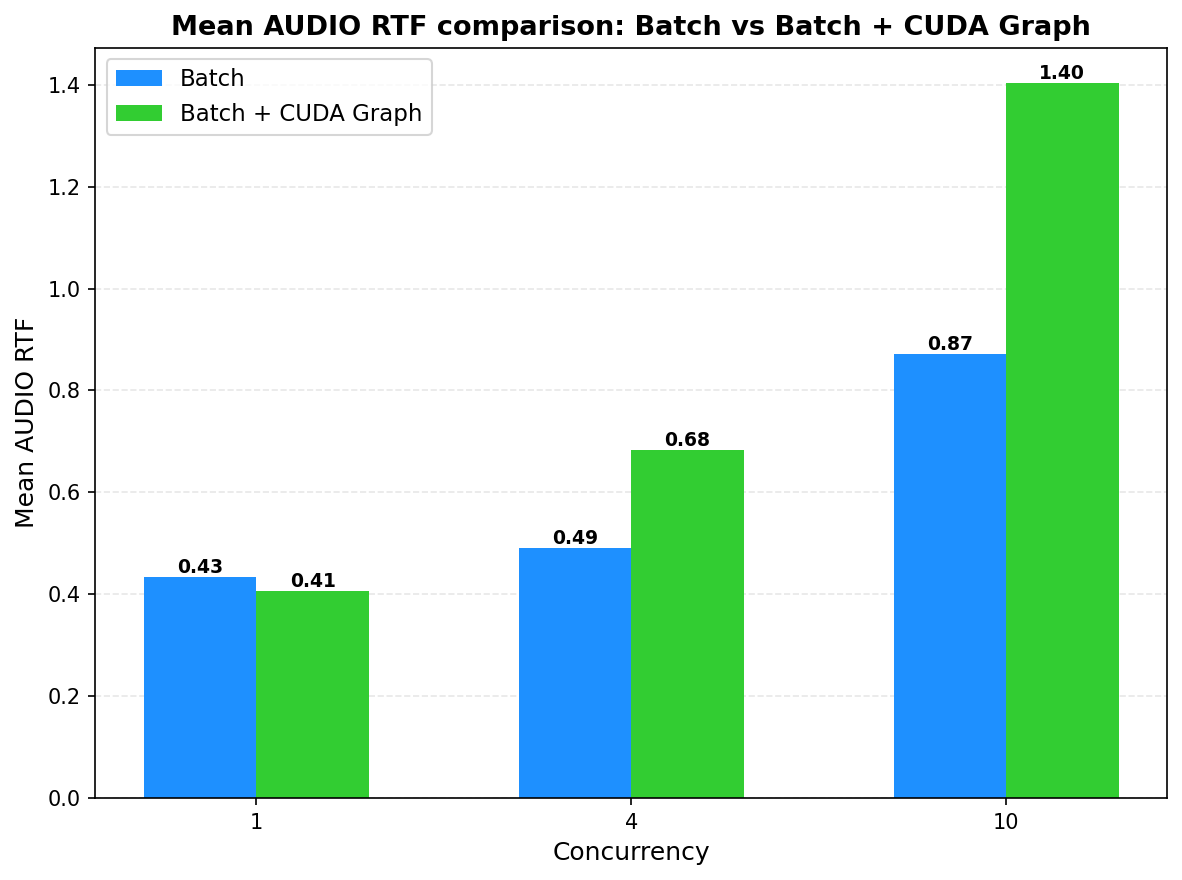
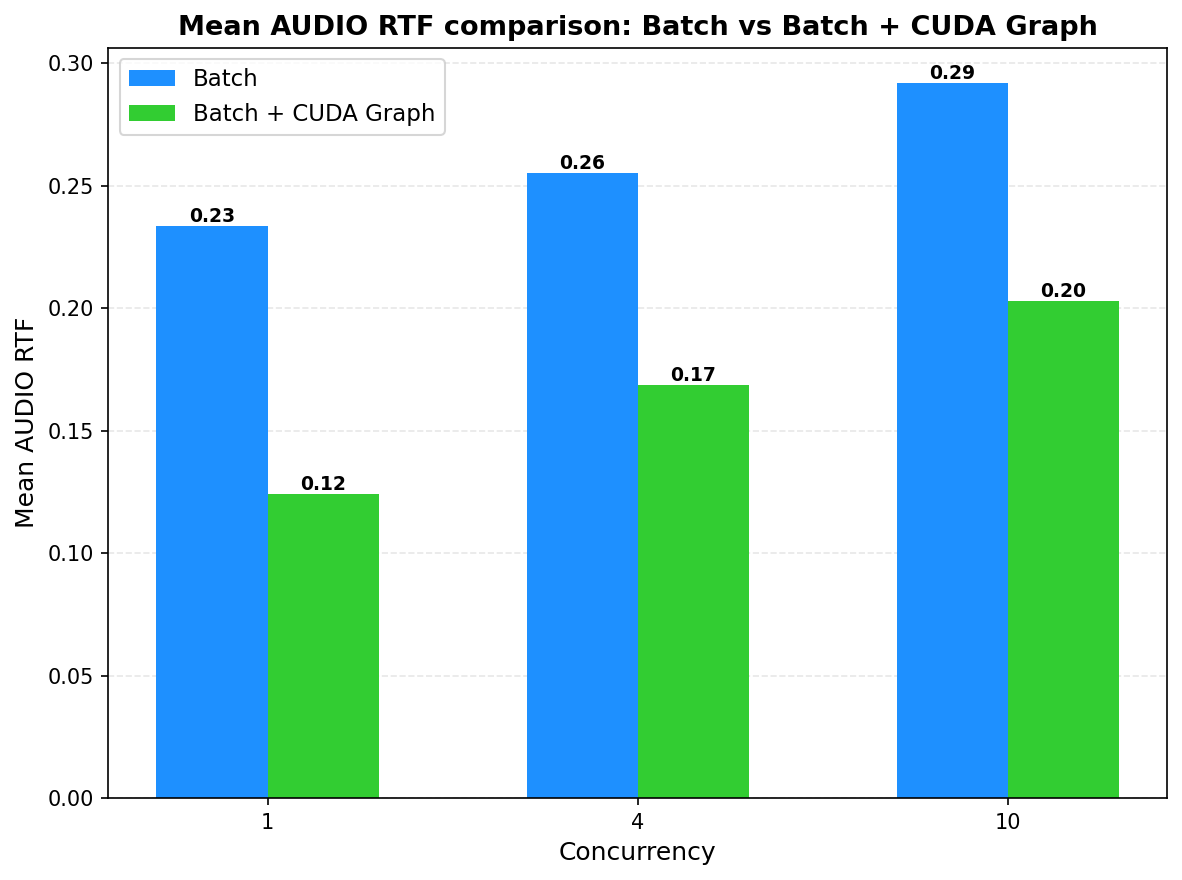
Update TTS benchmark results with vLLM v0.18.0 data (preserve Omni data)

diff --git a/docs/design/qwen3_omni_tts_performance_blog.md b/docs/design/qwen3_omni_tts_performance_blog.md
@@ -30,9 +30,9 @@ Compared with **HF Transformers** (offline, single request), vLLM-Omni with the 
 **Qwen3-Omni** (A100):
 
 <table><tr>
-<td><img src="figures/omni/E2EL_s_vllm_omni_vs_transformers.png" alt="Qwen3-Omni E2EL: vLLM vs HF" width="100%"/></td>
-<td><img src="figures/omni/TTFP_s_vllm_omni_vs_transformers.png" alt="Qwen3-Omni TTFP: vLLM vs HF" width="100%"/></td>
-<td><img src="figures/omni/RTF_vllm_omni_vs_transformers.png" alt="Qwen3-Omni RTF: vLLM vs HF" width="100%"/></td>
+<td><img src="../figures/omni/E2EL_s_vllm_omni_vs_transformers.png" alt="Qwen3-Omni E2EL: vLLM vs HF" width="100%"/></td>
+<td><img src="../figures/omni/TTFP_s_vllm_omni_vs_transformers.png" alt="Qwen3-Omni TTFP: vLLM vs HF" width="100%"/></td>
+<td><img src="../figures/omni/RTF_vllm_omni_vs_transformers.png" alt="Qwen3-Omni RTF: vLLM vs HF" width="100%"/></td>
 </tr></table>
 
 | Metric | vLLM-Omni | HF Transformers | Improvement |
@@ -48,20 +48,20 @@ Compared with **HF Transformers** (offline, single request), vLLM-Omni with the 
 **Qwen3-TTS** (H200, concurrency 1):
 
 <table><tr>
-<td><img src="figures/tts/Mean_E2EL_(ms)_vllm_omni_vs_transformers.png" alt="Qwen3-TTS E2EL: vLLM vs HF" width="100%"/></td>
-<td><img src="figures/tts/Mean_AUDIO_TTFP_(ms)_vllm_omni_vs_transformers.png" alt="Qwen3-TTS TTFP: vLLM vs HF" width="100%"/></td>
-<td><img src="figures/tts/Mean_AUDIO_RTF_vllm_omni_vs_transformers.png" alt="Qwen3-TTS RTF: vLLM vs HF" width="100%"/></td>
+<td><img src="../figures/tts/Mean_E2EL_(ms)_vllm_omni_vs_transformers.png" alt="Qwen3-TTS E2EL: vLLM vs HF" width="100%"/></td>
+<td><img src="../figures/tts/Mean_AUDIO_TTFP_(ms)_vllm_omni_vs_transformers.png" alt="Qwen3-TTS TTFP: vLLM vs HF" width="100%"/></td>
+<td><img src="../figures/tts/Mean_AUDIO_RTF_vllm_omni_vs_transformers.png" alt="Qwen3-TTS RTF: vLLM vs HF" width="100%"/></td>
 </tr></table>
 
 | Metric | vLLM-Omni | HF Transformers | Improvement |
 | --- | --- | --- | --- |
-| E2E latency (s) | 2.08 | 15.51 | ~87% reduction |
-| TTFP (ms) | 97 | 15,513 | ~99.4% reduction (160× faster) |
-| RTF | 0.34 | 2.64 | ~87% reduction (~7.8× faster) |
+| E2E latency (ms) | 941 | 15,513 | ~94% reduction |
+| TTFP (ms) | 64 | 15,513 | ~99.6% reduction (242× faster) |
+| RTF | 0.16 | 2.64 | ~94% reduction (~16.5× faster) |
 
-- **E2E latency**: 2.08 s vs 15.51 s - **~87%** reduction
-- **TTFP**: 97 ms vs 15,513 ms - **~99.4%** reduction (160x faster)
-- **RTF**: 0.34 vs 2.64 - **~87%** reduction (~7.8x faster)
+- **E2E latency**: 941 ms vs 15,513 ms - **~94%** reduction
+- **TTFP**: 64 ms vs 15,513 ms - **~99.6%** reduction (242x faster)
+- **RTF**: 0.16 vs 2.64 - **~94%** reduction (~16.5x faster)
 
 ### Stacked optimization summary
 
@@ -70,9 +70,9 @@ Each optimization stacks on the previous one. The summary plots below show the c
 **Qwen3-Omni** (A100):
 
 <table><tr>
-<td><img src="figures/omni/Summary_E2EL_ms_vs_features.png" alt="Qwen3-Omni E2EL: stacked optimization" width="100%"/></td>
-<td><img src="figures/omni/Summary_TTFP_ms_vs_features.png" alt="Qwen3-Omni TTFP: stacked optimization" width="100%"/></td>
-<td><img src="figures/omni/Summary_RTF_vs_features.png" alt="Qwen3-Omni RTF: stacked optimization" width="100%"/></td>
+<td><img src="../figures/omni/Summary_E2EL_ms_vs_features.png" alt="Qwen3-Omni E2EL: stacked optimization" width="100%"/></td>
+<td><img src="../figures/omni/Summary_TTFP_ms_vs_features.png" alt="Qwen3-Omni TTFP: stacked optimization" width="100%"/></td>
+<td><img src="../figures/omni/Summary_RTF_vs_features.png" alt="Qwen3-Omni RTF: stacked optimization" width="100%"/></td>
 </tr></table>
 
 - **E2EL reduction**: ~74% at concurrency 10 (410,054 ms -> 104,901 ms); ~90% at concurrency 1 (426,529 ms -> 41,216 ms)
@@ -82,14 +82,14 @@ Each optimization stacks on the previous one. The summary plots below show the c
 **Qwen3-TTS** (H200):
 
 <table><tr>
-<td><img src="figures/tts/Summary_mean_e2e_ms_vs_features.png" alt="Qwen3-TTS E2EL: stacked optimization" width="100%"/></td>
-<td><img src="figures/tts/Summary_mean_ttfp_ms_vs_features.png" alt="Qwen3-TTS TTFP: stacked optimization" width="100%"/></td>
-<td><img src="figures/tts/Summary_mean_rtf_vs_features.png" alt="Qwen3-TTS RTF: stacked optimization" width="100%"/></td>
+<td><img src="../figures/tts/Summary_mean_e2e_ms_vs_features.png" alt="Qwen3-TTS E2EL: stacked optimization" width="100%"/></td>
+<td><img src="../figures/tts/Summary_mean_ttfp_ms_vs_features.png" alt="Qwen3-TTS TTFP: stacked optimization" width="100%"/></td>
+<td><img src="../figures/tts/Summary_mean_rtf_vs_features.png" alt="Qwen3-TTS RTF: stacked optimization" width="100%"/></td>
 </tr></table>
 
-- **E2EL reduction**: ~89% at concurrency 10 (44,543 ms -> 4,971 ms); ~56% at concurrency 1 (4,714 ms -> 2,082 ms)
-- **TTFP reduction**: ~97% at concurrency 10 (44,543 ms -> 1,383 ms); ~98% at concurrency 1 (4,714 ms -> 97 ms)
-- **RTF reduction**: ~89% at concurrency 10 (8.15 -> 0.90); ~60% at concurrency 1 (0.85 -> 0.34)
+- **E2EL reduction**: ~85% at concurrency 10 (12,141 ms -> 1,767 ms); ~29% at concurrency 1 (1,323 ms -> 941 ms)
+- **TTFP reduction**: ~96.5% at concurrency 10 (12,141 ms -> 425 ms); ~95% at concurrency 1 (1,323 ms -> 64 ms)
+- **RTF reduction**: ~86% at concurrency 10 (2.19 -> 0.31); ~30% at concurrency 1 (0.23 -> 0.16)
 
 **Benchmark environment:**
 
@@ -97,8 +97,8 @@ Each optimization stacks on the previous one. The summary plots below show the c
 | --- |-----------------------------| --- |
 | **GPU** | A100                        | H200 |
 | **Model** | Qwen3-Omni-30B-A3B-Instruct | Qwen3-TTS-12Hz-1.7B-CustomVoice |
-| **vLLM** | v0.17.0                     | v0.16.0 |
-| **vllm-omni** | commit 199f7832             | commit 3bc89de0 |
+| **vLLM** | v0.17.0                     | v0.18.0 |
+| **vllm-omni** | commit 199f7832             | v0.18.0rc2 |
 | **CUDA** | 12.9                        | 12.8 |
 
 This post walks through each optimization in the same order they are typically enabled in practice, then ends with deployment playbooks for both models.
@@ -124,9 +124,9 @@ Batching alone greatly reduces E2EL and RTF across all concurrencies. The bigges
 **Qwen3-Omni** (A100):
 
 <table><tr>
-<td><img src="figures/omni/Mean_E2EL_ms_Baseline_vs_Batch.png" alt="Qwen3-Omni E2EL: Baseline vs Batch" width="100%"/></td>
-<td><img src="figures/omni/Mean_AUDIO_TTFP_ms_Baseline_vs_Batch.png" alt="Qwen3-Omni TTFP: Baseline vs Batch" width="100%"/></td>
-<td><img src="figures/omni/Mean_AUDIO_RTF_Baseline_vs_Batch.png" alt="Qwen3-Omni RTF: Baseline vs Batch" width="100%"/></td>
+<td><img src="../figures/omni/Mean_E2EL_ms_Baseline_vs_Batch.png" alt="Qwen3-Omni E2EL: Baseline vs Batch" width="100%"/></td>
+<td><img src="../figures/omni/Mean_AUDIO_TTFP_ms_Baseline_vs_Batch.png" alt="Qwen3-Omni TTFP: Baseline vs Batch" width="100%"/></td>
+<td><img src="../figures/omni/Mean_AUDIO_RTF_Baseline_vs_Batch.png" alt="Qwen3-Omni RTF: Baseline vs Batch" width="100%"/></td>
 </tr></table>
 
 | Metric | Concurrency | Baseline | + Batch | Improvement |
@@ -146,22 +146,22 @@ At concurrency 10, E2EL drops from ~410 s to ~235 s; at concurrency 1, from ~427
 **Qwen3-TTS** (H200):
 
 <table><tr>
-<td><img src="figures/tts/Mean_mean_e2e_ms_baseline_vs_batch.png" alt="Qwen3-TTS E2EL: Baseline vs Batch" width="100%"/></td>
-<td><img src="figures/tts/Mean_mean_ttfp_ms_baseline_vs_batch.png" alt="Qwen3-TTS TTFP: Baseline vs Batch" width="100%"/></td>
-<td><img src="figures/tts/Mean_mean_rtf_baseline_vs_batch.png" alt="Qwen3-TTS RTF: Baseline vs Batch" width="100%"/></td>
+<td><img src="../figures/tts/Mean_mean_e2e_ms_baseline_vs_batch.png" alt="Qwen3-TTS E2EL: Baseline vs Batch" width="100%"/></td>
+<td><img src="../figures/tts/Mean_mean_ttfp_ms_baseline_vs_batch.png" alt="Qwen3-TTS TTFP: Baseline vs Batch" width="100%"/></td>
+<td><img src="../figures/tts/Mean_mean_rtf_baseline_vs_batch.png" alt="Qwen3-TTS RTF: Baseline vs Batch" width="100%"/></td>
 </tr></table>
 
 | Metric | Concurrency | Baseline | + Batch | Improvement |
 | --- | --- | --- | --- | --- |
-| E2EL (ms) | 1 | 4,714 | 2,531 | 1.9× |
-| E2EL (ms) | 4 | 18,258 | 2,847 | 6.4× |
-| E2EL (ms) | 10 | 44,543 | 4,920 | 9.1× |
-| RTF | 1 | 0.851 | 0.434 | 2.0× |
-| RTF | 4 | 3.205 | 0.492 | 6.5× |
-| RTF | 10 | 8.152 | 0.871 | 9.4× |
-| Throughput | 10 | 1.25× | 10.35× | 8.3× |
+| E2EL (ms) | 1 | 1,323 | 1,339 | 1.0× |
+| E2EL (ms) | 4 | 5,171 | 1,471 | 3.5× |
+| E2EL (ms) | 10 | 12,141 | 1,705 | 7.1× |
+| RTF | 1 | 0.230 | 0.234 | 1.0× |
+| RTF | 4 | 0.908 | 0.255 | 3.6× |
+| RTF | 10 | 2.186 | 0.292 | 7.5× |
+| Throughput (audio-s/wall-s) | 10 | 3.99 | 33.53 | 8.4× |
 
-At concurrency 10, batching alone brings Qwen3-TTS RTF from 8.15 (far from realtime) down to 0.87 (faster than realtime), and throughput from 1.25x to 10.35x.
+At concurrency 10, batching alone brings Qwen3-TTS RTF from 2.19 (slower than realtime) down to 0.29 (faster than realtime), and throughput from 4.0 to 33.5 audio-sec/wall-sec.
 
 ---
 
@@ -178,9 +178,9 @@ In stage configs, this is represented by `enforce_eager: false` for stages where
 **Qwen3-Omni** (A100):
 
 <table><tr>
-<td><img src="figures/omni/Mean_E2EL_ms_Batch_vs_Batch_CUDA_Graph.png" alt="Qwen3-Omni E2EL: Batch vs CUDA Graph" width="100%"/></td>
-<td><img src="figures/omni/Mean_AUDIO_TTFP_ms_Batch_vs_Batch_CUDA_Graph.png" alt="Qwen3-Omni TTFP: Batch vs CUDA Graph" width="100%"/></td>
-<td><img src="figures/omni/Mean_AUDIO_RTF_Batch_vs_Batch_CUDA_Graph.png" alt="Qwen3-Omni RTF: Batch vs CUDA Graph" width="100%"/></td>
+<td><img src="../figures/omni/Mean_E2EL_ms_Batch_vs_Batch_CUDA_Graph.png" alt="Qwen3-Omni E2EL: Batch vs CUDA Graph" width="100%"/></td>
+<td><img src="../figures/omni/Mean_AUDIO_TTFP_ms_Batch_vs_Batch_CUDA_Graph.png" alt="Qwen3-Omni TTFP: Batch vs CUDA Graph" width="100%"/></td>
+<td><img src="../figures/omni/Mean_AUDIO_RTF_Batch_vs_Batch_CUDA_Graph.png" alt="Qwen3-Omni RTF: Batch vs CUDA Graph" width="100%"/></td>
 </tr></table>
 
 | Metric | Concurrency | Batch | + CUDA Graph | Improvement |
@@ -199,9 +199,22 @@ For the larger Qwen3-Omni model (30B-A3B), CUDA Graph provides a significant imp
 
 **Qwen3-TTS** (H200):
 
-For the Qwen3-TTS 1.7B model, vLLM's CUDA graph on the main Talker decode loop shows **negligible impact** - within noise at concurrency 1 and slightly worse at concurrency 10. The model is small enough that CPU kernel launch overhead is already a tiny fraction of total compute, so graph replay doesn't help. For larger TTS models, the benefit would be more pronounced.
+<table><tr>
+<td><img src="../figures/tts/Mean_mean_e2e_ms_batch_vs_cuda_graph.png" alt="TTS E2EL: Batch vs +CG" width="100%"/></td>
+<td><img src="../figures/tts/Mean_mean_ttfp_ms_batch_vs_cuda_graph.png" alt="TTS TTFP: Batch vs +CG" width="100%"/></td>
+<td><img src="../figures/tts/Mean_mean_rtf_batch_vs_cuda_graph.png" alt="TTS RTF: Batch vs +CG" width="100%"/></td>
+</tr></table>
 
-Instead, the TTS-specific kernel-level optimization comes from **`torch.compile` on the code predictor** (see below), which targets the many small kernels in the 5-layer residual codebook transformer rather than the main Talker decode path.
+| Metric | Concurrency | Batch | + CUDA Graph | Improvement |
+| --- | --- | --- | --- | --- |
+| E2EL (ms) | 1 | 1,339 | 733 | 1.8× |
+| E2EL (ms) | 4 | 1,471 | 987 | 1.5× |
+| E2EL (ms) | 10 | 1,705 | 1,197 | 1.4× |
+| RTF | 1 | 0.234 | 0.124 | 1.9× |
+| RTF | 10 | 0.292 | 0.203 | 1.4× |
+| Throughput (audio-s/wall-s) | 10 | 33.53 | 47.15 | 1.4× |
+
+At concurrency 1, CUDA Graph reduces E2EL from 1,339 ms to 733 ms and RTF from 0.234 to 0.124 - nearly a 2x improvement. The benefit is consistent across all concurrency levels.
 
 ---
 
@@ -223,9 +236,9 @@ So in practice: streaming output defines *how* bytes are sent to the client; asy
 **Qwen3-Omni** (A100):
 
 <table><tr>
-<td><img src="figures/omni/Mean_E2EL_ms_Batch_CUDA_Graph_vs_Async_Chunk.png" alt="Qwen3-Omni E2EL: CG vs Async Chunk" width="100%"/></td>
-<td><img src="figures/omni/Mean_AUDIO_TTFP_ms_Batch_CUDA_Graph_vs_Async_Chunk.png" alt="Qwen3-Omni TTFP: CG vs Async Chunk" width="100%"/></td>
-<td><img src="figures/omni/Mean_AUDIO_RTF_Batch_CUDA_Graph_vs_Async_Chunk.png" alt="Qwen3-Omni RTF: CG vs Async Chunk" width="100%"/></td>
+<td><img src="../figures/omni/Mean_E2EL_ms_Batch_CUDA_Graph_vs_Async_Chunk.png" alt="Qwen3-Omni E2EL: CG vs Async Chunk" width="100%"/></td>
+<td><img src="../figures/omni/Mean_AUDIO_TTFP_ms_Batch_CUDA_Graph_vs_Async_Chunk.png" alt="Qwen3-Omni TTFP: CG vs Async Chunk" width="100%"/></td>
+<td><img src="../figures/omni/Mean_AUDIO_RTF_Batch_CUDA_Graph_vs_Async_Chunk.png" alt="Qwen3-Omni RTF: CG vs Async Chunk" width="100%"/></td>
 </tr></table>
 
 | Metric | Concurrency | Batch + CG | + Async Chunk | Improvement |
@@ -245,22 +258,31 @@ Enabling both brings TTFP down sharply (concurrency 1: 61,257 ms -> 1,164 ms, **
 **Qwen3-TTS** (H200):
 
 <table><tr>
-<td><img src="figures/tts/Mean_mean_e2e_ms_cuda_graph_vs_async_chunk.png" alt="Qwen3-TTS E2EL: CG vs Async Chunk" width="100%"/></td>
-<td><img src="figures/tts/Mean_mean_ttfp_ms_cuda_graph_vs_async_chunk.png" alt="Qwen3-TTS TTFP: CG vs Async Chunk" width="100%"/></td>
-<td><img src="figures/tts/Mean_mean_rtf_cuda_graph_vs_async_chunk.png" alt="Qwen3-TTS RTF: CG vs Async Chunk" width="100%"/></td>
+<td><img src="../figures/tts/Mean_mean_e2e_ms_cuda_graph_vs_async_chunk.png" alt="Qwen3-TTS E2EL: CG vs Async Chunk" width="100%"/></td>
+<td><img src="../figures/tts/Mean_mean_ttfp_ms_cuda_graph_vs_async_chunk.png" alt="Qwen3-TTS TTFP: CG vs Async Chunk" width="100%"/></td>
+<td><img src="../figures/tts/Mean_mean_rtf_cuda_graph_vs_async_chunk.png" alt="Qwen3-TTS RTF: CG vs Async Chunk" width="100%"/></td>
 </tr></table>
 
 | Metric | Concurrency | Batch + CG | + Async Chunk | Improvement |
 | --- | --- | --- | --- | --- |
-| TTFP (ms) | 1 | 2,335 | **97** | **24.1×** |
-| TTFP (ms) | 4 | 3,975 | **254** | **15.7×** |
-| TTFP (ms) | 10 | 7,743 | **1,383** | **5.6×** |
-| E2EL (ms) | 1 | 2,335 | 2,082 | 1.1× |
-| E2EL (ms) | 10 | 7,743 | 4,971 | 1.6× |
-| RTF | 1 | 0.407 | 0.340 | 1.2× |
-| RTF | 10 | 1.403 | 0.898 | 1.6× |
+| TTFP (ms) | 1 | 733 | **64** | **11.5×** |
+| TTFP (ms) | 4 | 987 | **119** | **8.3×** |
+| TTFP (ms) | 10 | 1,197 | **425** | **2.8×** |
+| E2EL (ms) | 1 | 733 | 941 | 0.8× |
+| E2EL (ms) | 10 | 1,197 | 1,767 | 0.7× |
+| RTF | 1 | 0.124 | 0.160 | 0.8× |
+| RTF | 10 | 0.203 | 0.314 | 0.6× |
 
-The TTFP improvement is the headline result for both models. For Qwen3-TTS at concurrency 1, users hear the first audio in **97 ms** instead of 2,335 ms - a **24x reduction**. For Qwen3-Omni at concurrency 1, TTFP drops from 61 s to 1.2 s - a **53x reduction**.
+The TTFP improvement is the headline result for both models. For Qwen3-TTS at concurrency 1, users hear the first audio in **64 ms** instead of 733 ms - an **11.5x reduction**. For Qwen3-Omni at concurrency 1, TTFP drops from 61 s to 1.2 s - a **53x reduction**.
+
+### Why E2EL and RTF are higher with async chunk (TTS)
+
+The table above shows that enabling async chunk + streaming *increases* E2EL and RTF for TTS compared to CUDA Graph alone. This is expected - the two configurations optimize for fundamentally different metrics:
+
+- **CUDA Graph (no async chunk)** generates the entire audio end-to-end before returning. No chunking overhead, so total compute is minimized.
+- **Async Chunk + Streaming** splits the pipeline into incremental chunks, adding overhead from chunked transport, context overlap in Code2Wav (`codec_left_context_frames=25`), and smaller effective batch sizes per chunk.
+
+**The tradeoff is intentional.** Async chunk trades ~30% higher total compute for **11x faster time-to-first-audio**. For interactive applications (voice assistants, chatbots), TTFP determines perceived responsiveness. For offline batch processing, CUDA Graph without async chunk is the better choice.
 
 ---
 
@@ -339,7 +361,7 @@ runtime:
         # set initial_codec_chunk_frames: 2 to force a fixed value
 ```
 
-The 97 ms TTFP result reported above for Qwen3-TTS at concurrency 1 uses the dynamic initial chunk, which picks `initial_codec_chunk_frames=2` at low load. At higher concurrency the dynamic sizing increases the initial chunk to maintain decode efficiency.
+The 64 ms TTFP result reported above for Qwen3-TTS at concurrency 1 uses the dynamic initial chunk, which picks `initial_codec_chunk_frames=2` at low load. At higher concurrency the dynamic sizing increases the initial chunk to maintain decode efficiency.
 
 ---
 
